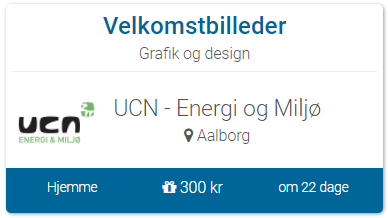
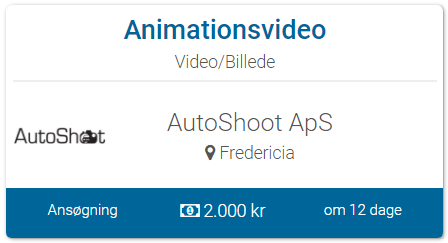
Ansøgning/Forslag

diff --git a/ClientApp/app/terms/terms.component.html b/ClientApp/app/terms/terms.component.html
@@ -19,21 +19,21 @@
             <li>Gavekortet skal kunne bruges og have relevans uafhængigt af køn og alder.</li>
             <li>Transaktions- og forsendelsesomkostninger dækkes af virksomheden, og det skal ikke indgå i værdien af pengepræmien eller gavekortet.</li>
             <li>I kan ikke slette opgaven efter oprettelsen.</li>
-            <li>I kan ikke ændre pengepræmien, gavekortets værdi eller deadlinen efter oprettelsen af opgaven. Såfremt der opstår fejl eller problemer med oprettelsen, kontakt da venligst supporten på info@unifacto.com. </li>
+            <li>I kan ikke ændre pengepræmien, gavekortets værdi, timelønnen eller deadlinen efter oprettelsen af opgaven. Såfremt der opstår fejl eller problemer med oprettelsen, kontakt da venligst supporten på info@unifacto.com.</li>
         </ul>
         <p class="tc-header">Deadlinen er overskredet:</p>
-        <p class="tc-subheader">Udarbejdelse af opgaven hjemme hos den studerende</p>
+        <p class="tc-subheader">Forslagsopgaver</p>
         <ul>
             <li>Pengepræmien, gavekortet eller anbefalingen skal være den studerende i hænde inden for 10 arbejdsdage efter modtagelsen af løsningsforslagene. Ved modtagelse af pengepræmie som belønning skal du huske at opgive dette som B-indkomst.</li>
-            <li>Efter deadlinen af løsningsforslagene har I fem arbejdsdage til at finde det bedste løsningsforslag og orientere den studerende, med det bedste løsningsforslag, om jeres valg. Desuden skal Unifacto orienteres om hvem der udarbejdede det bedste løsningsforslag samt antallet af løsningsforslag.</li>
+            <li>Efter deadlinen af løsningsforslagene har I fem arbejdsdage til at finde det bedste løsningsforslag og orientere den studerende, med det bedste løsningsforslag, om jeres valg.</li>
             <li>Uanset antallet af løsningsforslag og indholdet af dem skal der gives en belønning.</li>
         </ul>
-        <p class="tc-subheader">Udarbejdelse af opgaven hos jer</p>
+        <p class="tc-subheader">Ansøgningsopgaver</p>
         <ul>
-            <li>Ved ansøgninger om at udarbejde løsningsforslaget hos jer, skal I vælge en eller flere ansøgere inden for fem dage efter deadlinen. Unifacto skal orienteres om hvem den/de udvalgte studerende er, samt skal der tilsendes en kort beskrivelse af udarbejdelsesforløbet, når det er afsluttet, til os.</li>
+            <li>Ved ansøgninger om at udarbejde løsningsforslaget i samarbejde med jer, skal I vælge en eller flere ansøgere inden for fem dage efter deadlinen.</li>
             <li>Såfremt, at der ikke er nogen ansøgninger som passer til jeres kriterier, er I ikke nødsaget til at vælge en studerende, som skal udarbejde løsningsforslaget hos jer.</li>
-            <li>Pengepræmien, gavekortet eller anbefalingen skal gives til den/de udvalgte studerende inden for 10 arbejdsdage efter at udarbejdelsesforløbet er afsluttet. Ved modtagelse af pengepræmie som belønning skal du huske at opgive dette som B-indkomst.</li>
-            <li>Hvis I udvælger en studerende som skal udføre en opgave hos jer, skal aftalerne og belønningen overholdes mellem jer og den studerende.</li>
+            <li>Pengepræmien, gavekortet, timelønnen eller anbefalingen skal gives til den/de udvalgte studerende inden for 10 arbejdsdage efter at udarbejdelsesforløbet er afsluttet. Ved modtagelse af pengepræmie som belønning skal du huske at opgive dette som B-indkomst.</li>
+            <li>Hvis I udvælger en studerende, skal aftalerne og belønningen overholdes mellem jer og den studerende.</li>
         </ul>
         <p class="tc-header">Markedsføring:</p>
         <ul>
@@ -56,14 +56,14 @@
             <li>Unifacto bruger cookies. Denne formalitet sikrer, at Unifacto husker din adgang til webstedet, derudover bruger vi cookies til statistik og webanalyse, så vi kan forbedre din brugeroplevelse og målrette indholdet til dine behov og interesser. Du kan deaktivere denne indstilling i internetbrowseren.</li>
             <li>Hver gang du besøger Unifacto vil din IP-adresse blive registreret.</li>
         </ul>
-        <p class="tc-header">Opgaver udarbejdet hos virksomheden:</p>
+        <p class="tc-header">Ansøgningsopgaver:</p>
         <ul>
             <li>Unifacto står udelukkende for kontakten mellem den studerende og virksomheden. Derfor fralægger vi os ansvaret for udlevering af belønning.</li>
             <li>Unifacto er ikke ansvarlig for at virksomheden lever op til det der er beskrevet i opgavebeskrivelsen.</li>
             <li>Hvis der indgås en ansættelsesaftale mellem virksomheden og den studerende, er Unifacto ikke en del af ansættelsesforholdet og har ingen forpligtelser af ansættelsesret karakter.</li>
             <li>Unifacto er ikke ansvarlig for ansættelsesvilkårene eller virksomhedens overholdelse deraf.</li>
         </ul>
-        <p class="tc-header">Opgaver udarbejdet hjemmefra:</p>
+        <p class="tc-header">Forslagsopgaver:</p>
         <ul>
             <li>Unifacto står udelukkende for kontakten mellem den studerende og virksomheden. Derfor fralægger vi os ansvaret for udlevering af belønning.</li>
             <li>Unifacto er ikke ansvarlig for at virksomheden lever op til det der er beskrevet i opgavebeskrivelsen.</li>

diff --git a/ClientApp/app/how-it-works-business/how-it-works-business.component.html b/ClientApp/app/how-it-works-business/how-it-works-business.component.html
@@ -40,9 +40,9 @@
             <div class="col-xs-12 text-center">
                 <div class="col-sm-6 text1">
                     <h2>Arbejdsformer</h2>
-                    <p>Afhængigt af jeres behov kan I vælge om de studerende skal udarbejde løsningsforslag hjemmefra eller hos jer.</p>
-                    <p>Vælger I at de studerende skal udarbejde løsningsforslag hjemmefra, indsender de studerende løsningsforslag, hvorefter I udvælger den studerende med det bedste løsningsforslag. Den studerende med det bedste løsningsforslag modtager herefter en belønning fra jer.</p>
-                    <p>Vælger I derimod at I gerne vil have løsningsforslag udarbejdet hos jer, skal de studerende indsende ansøgninger, hvorefter I udvælger en eller flere studerende, som skal udarbejde løsningsforslaget hos jer i samarbejde med dem.</p>
+                    <p>Afhængigt af jeres behov kan I vælge om de studerende skal indsende forslag til jer eller de skal ansøge om at udarbejde løsningsforslaget enten hos jer eller hjemmefra.</p>
+                    <p>Vælger I at de studerende skal indsende løsningsforslag, indsender de studerende løsningsforslag, hvorefter I udvælger den studerende med det bedste løsningsforslag. Den studerende med det bedste løsningsforslag modtager herefter en belønning fra jer.</p>
+                    <p>Vælger I derimod at I gerne vil have løsningsforslag udarbejdet i samarbejde med jer, enten hos jer eller hos den studerende indsender de studerende ansøgninger, hvorefter I udvælger en eller flere studerende, som I ønsker et samarbejde med.</p>
                 </div>
                 <div class="col-sm-6">
                     <div class="img">
@@ -57,14 +57,14 @@
             <h2>Pris for at oprette opgaver</h2>
             <p>Det er gratis for virksomheder at uploade opgaver på Unifacto.com.</p>
             <h3>Belønning til studerende</h3>
-            <p>Den studerende som udarbejder det bedste løsningsforslag enten hjemmefra eller hos jer, skal tildeles en belønning af jer, som kan være honorar, gave eller/og anbefaling.</p>
-            <p>Hvis i vælger at opgaven skal udarbejdes hos jer, har i også muligheden for at give den studerende en timeløn, som opgavens belønning.</p>
+            <p>Den studerende som indsender det bedste løsningsforslag eller som samarbejdes med, skal tildeles en belønning af jer, som kan være honorar, gave eller/og anbefaling.</p>
+            <p>Hvis I vælger at opgaven skal være en ”ansøgningsopgave”, hvor studerende indsender ansøgningerne,, har I også muligheden for at give den studerende en timeløn, som opgavens belønning.</p>
             <p>Desuden er det også muligt at tildele anbefalinger til andre gode løsningsforslag.</p>
         </div>
     </div>
 
     <div class="contentRow">
-        <h3 class="hiw-headers heading2">Når studerende udarbejder løsningsforslaget hjemme</h3>
+        <h3 class="hiw-headers heading2">Når studerende indsender løsningsforslag</h3>
         <div class="hiw-steps">
             <hiw-step-four
                             *ngFor="let ah of atHome"
@@ -86,7 +86,7 @@
     </div>
     
     <div class="contentRow">
-        <h3 class="hiw-headers heading2">Når studerende udarbejder løsningsforslag hos jer</h3>
+        <h3 class="hiw-headers heading2">Når studerende indsender ansøgninger</h3>
         <div class="hiw-steps">
             <hiw-step-four
                            *ngFor="let ab of atBusiness"
@@ -100,7 +100,7 @@
         <div class="hiw-info contentRow">
             <h2>Vær opmærksom på</h2>
             <div>
-                <p>Når I uploader opgaven, vil de studerende løbende sende jer. Efter deadlinen er udløbet, har I fem arbejdsdage til at finde den bedste ansøger til at udarbejde løsningsforslaget hos jer, som skal markeres som vinder inde under ’Mine ogpaver’. </p>
+                <p>Når I uploader opgaven, vil studerende løbende indsende ansøgninger. Efter deadlinen er udløbet, har I fem arbejdsdage til at finde den bedste ansøger til at udarbejde løsningsforslaget i samarbejde med jer, som skal markeres som vinder inde under ’Mine ogpaver’. </p>
                 <p>Belønningen skal tildeles den udvalgte studerende inden for 10 arbejdsdage efter samarbejdssforløbet er afsluttet.</p>
             </div>
         </div>

diff --git a/ClientApp/app/how-it-works-students/how-it-works-students.component.html b/ClientApp/app/how-it-works-students/how-it-works-students.component.html
@@ -10,8 +10,8 @@
             <div class="col-xs-12 text-center" style="padding: 0;">
                 <div class="col-sm-6 text">
                     <h2>Opgaverne</h2>
-                    <p>Når du som studerende vil løse en opgave, vil dit første møde med opgaven, være opgavekortet. På opgavekortet kan du se opgavens titel og type, samt hvilken virksomhed der har lagt opgaven op. Derudover vil der på kortet være markeret hvor opgaven skal løses (hos virksomheden eller hjemme), hvilken type belønning der er tale om, samt opgavens deadline.</p>
-                    <p>De forskellige former for belønning du som studerende kan modtage, hvis dit løsningsforslag bliver valgt som det bedste af virksomheden, vil være honorar, gave eller en anbefaling, som hvert er markeret med et ikon og deres værdi. Derudover er timeløn også en belønnings mulighed, dette kan dog kun ske ved opgaver udarbejdet hos virksomheden.</p>
+                    <p>Når du som studerende vil løse en opgave, vil dit første møde med opgaven, være opgavekortet. På opgavekortet kan du se opgavens titel og type, samt hvilken virksomhed der har lagt opgaven op. Derudover vil der på kortet være markeret hvordan opgaven skal løses (forslag eller ansøgning), hvilken type belønning der er tale om, samt opgavens deadline.</p>
+                    <p>De forskellige former for belønning du som studerende kan modtage, hvis dit løsningsforslag bliver valgt som det bedste af virksomheden, vil være honorar, gave eller en anbefaling, som hvert er markeret med et ikon og deres værdi. Derudover er timeløn også en belønningsmulighed, dette kan dog kun ske ved ansøgningsopgaver.</p>
                 </div>
                 <div class="col-sm-6 img" style="padding: 0">
                     <img src="../../../wwwroot/assets/images/opgave.png" alt="" />
@@ -44,7 +44,7 @@
 </div>
 <div class="hiw-content">
     <div class="contentRow">
-        <h3 class="hiw-headers heading2">Når du udarbejder løsningsforslag hjemmefra</h3>
+        <h3 class="hiw-headers heading2">Når du indsender løsningsforslag</h3>
         <div class="hiw-steps">
             <hiw-step-three
                             *ngFor="let ah of atHome"
@@ -73,7 +73,7 @@
     </div>    
 
     <div class="contentRow">
-        <h3 class="hiw-headers heading2">Når du udarbejder løsningsforslag hos virksomheden</h3>
+        <h3 class="hiw-headers heading2">Når du indsender ansøgning</h3>
         <div class="hiw-steps">
             <hiw-step-four
                            *ngFor="let ab of atBusiness"
@@ -88,9 +88,9 @@
         <div class="hiw-info contentRow">
             <h2>Vær opmærksom på</h2>
             <div>
-                <p>Ved udarbejdelse af løsningsforslaget hos virksomheden skal du ansøge om at arbejde hos virksomheden. Du konkurrerer derfor mod andre studerende om at udarbejde løsningsforslaget hos virksomheden. Vær opmærksom på at virksomhedens opstillede retningslinjer og regler skal overholdes, såfremt du bliver udvalgt.</p>
+                <p>Ved udarbejdelse af løsningsforslaget skal du ansøge om løse opgaven. Du konkurrerer derfor mod andre studerende om at udarbejde løsningsforslaget. Vær opmærksom på at virksomhedens opstillede retningslinjer og regler skal overholdes, såfremt du bliver udvalgt.</p>
 
-                <p>Virksomheden har fem arbejdsdage til at udvælge den bedste kandidat efter deadlinens udløb. Du kan under ’Mine løsningsforslag’ se status på de enkelte opgaver, du kan se om der er fundet en vinder og i så fald om det er dig.</p>
+                <p>Virksomheden har fem arbejdsdage til at udvælge den bedste kandidat efter deadlinens udløb. Du kan under ’Mine løsningsforslag’ se status på de enkelte opgaver, du kan se om der er fundet en studerende og i så fald om det er dig.</p>
 
                 <p>Belønningen gives inden for 10 arbejdsdage, efter samarbejdssforløbet er afsluttet.</p>
 

diff --git a/ClientApp/app/upload-solution/upload-solution.component.html b/ClientApp/app/upload-solution/upload-solution.component.html
@@ -1,9 +1,9 @@
 <div class="upload-content contentRow">
-    <h2>Upload af løsningsforslag</h2>
+    <h2>Upload her for at komme i betragtning til opgaven</h2>
     <div class="form-group">
-        <label for="fileInput">Upload filer til dit løsningsforslag</label>
+        <label for="fileInput">Upload filer</label>
         <input type="file" multiple id="fileInput" name="fileInput" value="Upload filer" (change)="fileChange($event)">
-        <p class="help-block">Vælg de filer du gerne vil tilknytte til dit løsningsforslag</p>
+        <!--<p class="help-block">Vælg de filer du gerne vil tilknytte til dit løsningsforslag</p>-->
     </div>
 
     <button type="button" class="btn btn-success" (click)="uploadSolution()" [disabled]="!filesChanged || !enableUpload">Upload</button>
@@ -11,7 +11,7 @@
         <p>Deadlinen for denne opgave er udløbet og du kan derfor ikke lave flere ændringer til dit løsningsforslag. Hvis du mener at en eventuel ændring til dit løsningforslag vil have en stor betydning, kan du prøve at tage kontakt til virksomheden via deres email.</p>
     </div>
     <div *ngIf="solutions">
-        <h2 *ngIf="solutions.length > 0">Håndter uploadede løsningsforslag</h2>
+        <h2 *ngIf="solutions.length > 0">Uploadede filer</h2>
         <div class="uploaded-files" >
             <div class="display:flex" *ngFor="let s of solutions">
                 <div class="file-pill">
@@ -27,8 +27,8 @@
     </div>
 
     <div class="contact-student" *ngIf="student">
-        <p *ngIf="student.email">Virksomheden vil kontakte dig på <span style="font-weight:700;">{{ student.email}}</span>, hvis du skulle vinde denne opgave.</p>
-        <p *ngIf="!student.email">Du har ikke angivet nogen email, som virksomheden kan kontakte dig på, hvis du skulle vinde opgaven.</p>
+        <p *ngIf="student.email">Virksomheden vil kontakte dig på <span style="font-weight:700;">{{ student.email}}</span>, hvis du skulle blive valgt.</p>
+        <p *ngIf="!student.email">Du har ikke angivet nogen email, som virksomheden kan kontakte dig på, hvis du skulle blive valgt. Du kan ændre din email her.</p>
         <p>Du kan ændre din email <a routerLink="/student/settings" class="link">her</a><span *ngIf="student.email">, hvis dine oplysninger er forkerte.</span><span *ngIf="!student.email">.</span></p>
     </div>
 

diff --git a/ClientApp/app/business-manager/create-edit-task/create-edit-task.component.html b/ClientApp/app/business-manager/create-edit-task/create-edit-task.component.html
@@ -61,15 +61,15 @@
                          }">
                         <label for="workPlace" class="control-label">Hvordan skal opgaven løses? *</label>
                         <select class="form-control" id="workPlace" name="workPlace" [(ngModel)]="model.workPlace" #workPlace="ngModel" [disabled]="edit" required>
-                            <option value="1">Løsningen udarbejdes hjemme hos den studerende</option>
-                            <option value="2">Løsningen udarbejdes hos virksomheden</option>
+                            <option value="1">Jeg ønsker at modtage forslag til opgaven</option>
+                            <option value="2">Jeg ønsker at modtage ansøgninger om udarbejdelsen af opgaven</option>
                         </select>
                         <div class="form-feedback" *ngIf="workPlace.errors && (workPlace.dirty || workPlace.touched)">
-                            <p *ngIf="workPlace.errors.required">Arbejdsstedet for opgaven skal udfyldes</p>
+                            <p *ngIf="workPlace.errors.required">Løsningsmetoden for opgaven skal udfyldes</p>
                         </div>
                     </div>
 
-                    <p *ngIf="model.workPlace ==='2'">Firmaadressen hvor opgaven skal udføres</p>
+                    <p *ngIf="model.workPlace ==='2'">Jeres addresse skal udfyldes</p>
 
                     <div class="form-group" *ngIf="model.workPlace ==='2'"
                             [ngClass]="{
@@ -140,7 +140,7 @@
                          }">
                         <label for="rewardValue" class="control-label">
                             Belønningens værdi *
-                            <span class="fa-stack" style="font-size:10px;" tooltip="Belønningens værdi for enten gaven eller honoraret">
+                            <span class="fa-stack" style="font-size:10px;" tooltip="Belønningens værdi for enten gaven, honoraret eller timelønnen">
                                 <i class="fa fa-circle fa-stack-2x" style="color:#006699"></i>
                                 <i class="fa fa-info fa-stack-1x fa-inverse"></i>
                             </span>

diff --git a/ClientApp/app/shared/header/header.component.html b/ClientApp/app/shared/header/header.component.html
@@ -89,14 +89,14 @@
                     <li>Unifacto bruger cookies. Denne formalitet sikrer, at Unifacto husker din adgang til webstedet, derudover bruger vi cookies til statistik og webanalyse, så vi kan forbedre din brugeroplevelse og målrette indholdet til dine behov og interesser. Du kan deaktivere denne indstilling i internetbrowseren.</li>
                     <li>Hver gang du besøger Unifacto vil din IP-adresse blive registreret.</li>
                 </ul>
-                <p class="tc-header">Opgaver udarbejdet hos virksomheden:</p>
+                <p class="tc-header">Ansøgningsopgaver:</p>
                 <ul>
                     <li>Unifacto står udelukkende for kontakten mellem den studerende og virksomheden. Derfor fralægger vi os ansvaret for udlevering af belønning.</li>
                     <li>Unifacto er ikke ansvarlig for at virksomheden lever op til det der er beskrevet i opgavebeskrivelsen.</li>
                     <li>Hvis der indgås en ansættelsesaftale mellem virksomheden og den studerende, er Unifacto ikke en del af ansættelsesforholdet og har ingen forpligtelser af ansættelsesret karakter.</li>
                     <li>Unifacto er ikke ansvarlig for ansættelsesvilkårene eller virksomhedens overholdelse deraf.</li>
                 </ul>
-                <p class="tc-header">Opgaver udarbejdet hjemmefra:</p>
+                <p class="tc-header">Forslagsopgaver:</p>
                 <ul>
                     <li>Unifacto står udelukkende for kontakten mellem den studerende og virksomheden. Derfor fralægger vi os ansvaret for udlevering af belønning.</li>
                     <li>Unifacto er ikke ansvarlig for at virksomheden lever op til det der er beskrevet i opgavebeskrivelsen.</li>

diff --git a/ClientApp/app/how-it-works-business/how-it-works-business.component.ts b/ClientApp/app/how-it-works-business/how-it-works-business.component.ts
@@ -14,9 +14,9 @@ export class HowItWorksBusinessComponent {
     ];
     atBusiness = [
         { number: 1, title: "I uploader en <br /> opgave", description: "I uploader en opgave med beskrivelse, deadline og belønning." },
-        { number: 2, title: "Studerende<br /> ansøger", description: "De studerende ansøger om at udarbejde løsningsforslaget hos jer." },
-        { number: 3, title: "I udvælger den bedste ansøger <br /> og samarbejdet begynder", description: "Når deadlinen er overskredet udvælger I den bedste ansøger/ansøgere, som herefter påbegynder udarbejdelsen af løsningsforslaget hos jer." },
-        { number: 4, title: "Belønning <br /> gives", description: "Efter løsningsforslaget er blevet udarbejdet hos jer tildeles den studerende den oplyste belønning." },
+        { number: 2, title: "Studerende<br /> ansøger", description: "De studerende ansøger om at udarbejde løsningsforslaget i samarbejde med jer." },
+        { number: 3, title: "I udvælger den bedste ansøger <br /> og samarbejdet begynder", description: "Når deadlinen er overskredet udvælger I den bedste ansøger/ansøgere, som herefter påbegynder udarbejdelsen af løsningsforslaget." },
+        { number: 4, title: "Belønning <br /> gives", description: "Efter løsningsforslaget er blevet udarbejdet tildeles den studerende den oplyste belønning." },
     ];
 
     constructor() {

diff --git a/ClientApp/app/tasks/task-detail/task-detail.component.html b/ClientApp/app/tasks/task-detail/task-detail.component.html
@@ -38,11 +38,11 @@
 
            <div class="task-info">
                <div *ngIf="task.workPlace">
-                   <p class="task-workplace">Løsningen udarbejdes: <b>{{ task.workPlace === "2" ? "Hos virksomheden" : "Hjemme" }}</b></p>
+                   <p class="task-workplace">Opgavens type: <b>{{ task.workPlace === "2" ? "Ansøgning" : "Løsningsforslag" }}</b></p>
                    <p class="task-deadline" *ngIf="task.workPlace === '2'">Frist for ansøgning: <b>{{ getDeadlineString() }}</b></p>
                    <p class="task-deadline" *ngIf="task.workPlace === '1'">Frist for løsningsforslag: <b>{{ getDeadlineString() }}</b></p>
                 </div>
-               <p *ngIf="task.workPlace === '2'">Udarbejdelsen af opgaven kommer til at finde sted på: {{ task.address }}, {{ task.zip }} {{ task.city }}</p>
+               <!--<p *ngIf="task.workPlace === '2'">Udarbejdelsen af opgaven kommer til at finde sted på: {{ task.address }}, {{ task.zip }} {{ task.city }}</p>-->
                <p class="task-reward" style="font-size:14px;" *ngIf="task.rewardType">
                    Belønning ved bedste løsningsforslag:
                    <span *ngIf="task.rewardType === 'Honorar'"><i class="fa fa-money"></i></span>

diff --git a/ClientApp/app/how-it-works-students/how-it-works-students.component.ts b/ClientApp/app/how-it-works-students/how-it-works-students.component.ts
@@ -9,8 +9,8 @@ export class HowItWorksStudentsComponent {
     atBusiness = [
         { number: 1, title: "Ansøg hos <br /> virksomheden", description: "Upload din ansøgning til virksomheden og forklar hvorfor virksomheden skal vælge netop dig til at udarbejde løsningsforslaget i samarbejde med virksomheden." },
         { number: 2, title: "Virksomheden <br /> vælger dig", description: "Virksomheden gennemgår de uploadede ansøgninger, hvorefter den udvælger en eller flere studerende." },
-        { number: 3, title: "Du udarbejder løsningsforslaget", description: "Hvis du er blevet udvalgt, begynder du udarbejdelsen af løsningsforslaget hos virksomheden." },
-        { number: 4, title: "Modtag belønning af virksomheden", description: "Når du har gennemført perioden hos virksomheden og udarbejdet løsningsforslaget, vil du modtage den oplyste belønning fra virksomheden." }
+        { number: 3, title: "Du udarbejder løsningsforslaget", description: "Hvis du er blevet udvalgt, begyndes udarbejdelsen af løsningsforslaget." },
+        { number: 4, title: "Modtag belønning af virksomheden", description: "Når du har løst opgaven vil du modtage den oplyste belønning fra virksomheden." }
     ];
 
     atHome = [

diff --git a/ClientApp/app/tasks/task-list/task-card/task-card.component.html b/ClientApp/app/tasks/task-list/task-card/task-card.component.html
@@ -21,7 +21,7 @@
     </div>
     <div class="task-card-bot">
         <div class="task-card-detail">
-            <p>{{ task.workPlace === "2" ? "Hos virksomheden" : "Hjemme" }}</p> 
+            <p>{{ task.workPlace === "2" ? "Ansøgning" : "Forslag" }}</p> 
         </div>
         <div class="task-card-detail">
             <p style="font-size:14px;" *ngIf="task.rewardType === 'Honorar' || task.rewardType === 'Gave' || task.rewardType === 'Timeløn'">
